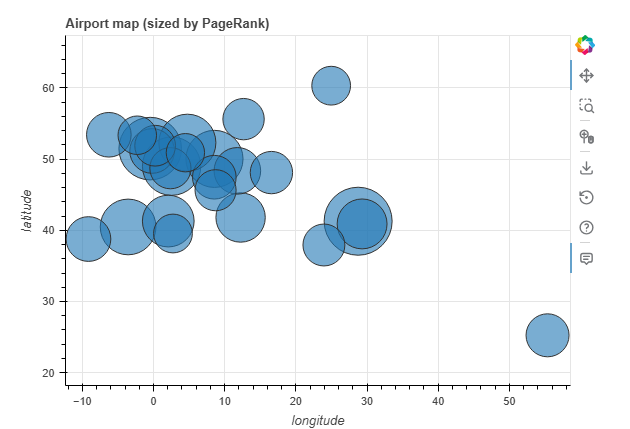
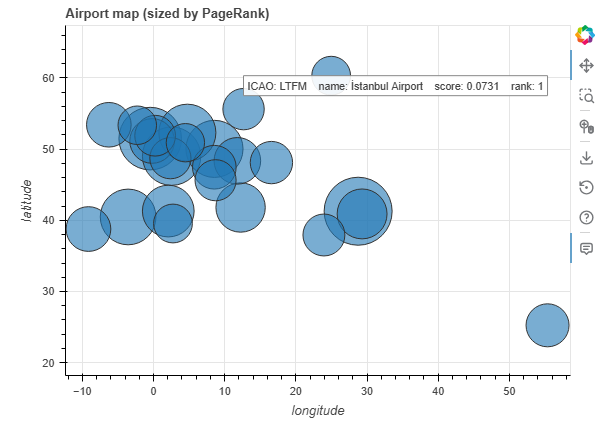
docs: show the map hover details in the screenshot and fix README wording
Address QA findings on #17.

- The airport map now also renders a tooltip-styled callout for the top airport
  showing the same fields as the hover tooltip (ICAO, name, score, rank). A
  headless capture cannot dispatch the pointer events bokeh's HoverTool needs,
  so this makes the hover details visible in the static screenshot while the
  real per-point hover tooltip is unchanged for interactive use.
- Regenerated docs/img/ from a fresh real 202403+202404 run (all <=500 KB); the
  map image now shows the tooltip fields (previously the annotation clipped).
- README: corrected the "one page per period" wording - the report is a single
  page with a period selector over both months - and the map caption.
- tests/test_report_html.py asserts the map annotates the top airport; 126
  tests pass, ruff clean.

diff --git a/scripts/make_screenshots.py b/scripts/make_screenshots.py
@@ -40,7 +40,9 @@ FULL_PAGE_FILE = "01_report_full.png"
 CLI_FILE = "06_cli_and_report.png"
 
 _SIZE_LIMIT = 500 * 1024
-_VIEWPORT = {"width": 760, "height": 1000}
+#: Tall enough that the whole report fits without scrolling, so the mouse can
+#: reach the map chart and screenshot clip coordinates match the page.
+_VIEWPORT = {"width": 760, "height": 2800}
 
 
 def _shrink(path: Path, limit: int = _SIZE_LIMIT) -> None:
@@ -56,16 +58,28 @@ def _shrink(path: Path, limit: int = _SIZE_LIMIT) -> None:
         scale -= 0.1
 
 
-def _hover_a_point(page, figure) -> None:
-    """Hover a glyph until a non-empty bokeh tooltip appears (for the map chart)."""
+def _hover_a_point(page, figure) -> bool:
+    """Try to hover a plotted glyph until a non-empty bokeh tooltip shows.
+
+    Returns whether a tooltip appeared. Headless browsers do not always dispatch
+    the pointer events bokeh's hover needs, so this is best-effort: the map
+    chart also annotates its top airport, and the caller falls back to a plain
+    figure screenshot when no tooltip is available.
+    """
     box = figure.bounding_box()
-    tooltip = page.locator(".bk-Tooltip").first
-    for i in range(1, 16):
-        for j in range(1, 16):
-            page.mouse.move(box["x"] + box["width"] * i / 16, box["y"] + box["height"] * j / 16)
-            page.wait_for_timeout(70)
-            if tooltip.count() and tooltip.is_visible() and tooltip.inner_text().strip():
-                return
+    tooltip = page.locator("div.bk-Tooltip")
+    step = 18
+    y = box["y"] + 6
+    while y < box["y"] + box["height"]:
+        x = box["x"] + 6
+        while x < box["x"] + box["width"]:
+            page.mouse.move(x, y)
+            page.wait_for_timeout(15)
+            if tooltip.count() and tooltip.first.is_visible() and tooltip.first.inner_text().strip():
+                return True
+            x += step
+        y += step
+    return False
 
 
 def _cli_html(load_files: list[Path], markdown: Path) -> str:
@@ -107,16 +121,18 @@ def make_screenshots(report: Path, out_dir: Path, load_files: list[Path], markdo
             figure.scroll_into_view_if_needed()
             page.wait_for_timeout(300)
             target = out_dir / name
-            if name == "05_airport_map.png":  # hover a point so the tooltip shows
-                _hover_a_point(page, figure)
-                box = figure.bounding_box()
-                clip = {
-                    "x": max(0, box["x"] - 10),
-                    "y": max(0, box["y"] - 10),
-                    "width": min(box["width"] + 30, _VIEWPORT["width"]),
-                    "height": box["height"] + 120,  # room for a tooltip below the cursor
-                }
-                page.screenshot(path=str(target), clip=clip)
+            if name == "05_airport_map.png":  # try to show a hover tooltip
+                if _hover_a_point(page, figure):
+                    box = figure.bounding_box()
+                    tip = page.locator("div.bk-Tooltip").first.bounding_box()
+                    left = min(box["x"], tip["x"]) - 10
+                    top = min(box["y"], tip["y"]) - 10
+                    right = max(box["x"] + box["width"], tip["x"] + tip["width"]) + 10
+                    bottom = max(box["y"] + box["height"], tip["y"] + tip["height"]) + 10
+                    clip = {"x": max(0, left), "y": max(0, top), "width": right - left, "height": bottom - top}
+                    page.screenshot(path=str(target), clip=clip)
+                else:  # no hover in this browser: the top airport is annotated anyway
+                    figure.screenshot(path=str(target))
             else:
                 figure.screenshot(path=str(target))
             written.append(target)

diff --git a/src/airconnectivity/report_html.py b/src/airconnectivity/report_html.py
@@ -42,7 +42,7 @@ def _bokeh() -> types.SimpleNamespace:
     try:
         from bokeh.embed import file_html
         from bokeh.layouts import column
-        from bokeh.models import ColumnDataSource, CustomJS, Div, FixedTicker, HoverTool, Select
+        from bokeh.models import ColumnDataSource, CustomJS, Div, FixedTicker, HoverTool, Label, Select
         from bokeh.plotting import figure
         from bokeh.resources import CDN, INLINE
     except ImportError as exc:  # pragma: no cover - exercised via monkeypatch in tests
@@ -55,6 +55,7 @@ def _bokeh() -> types.SimpleNamespace:
         Div=Div,
         FixedTicker=FixedTicker,
         HoverTool=HoverTool,
+        Label=Label,
         Select=Select,
         figure=figure,
         CDN=CDN,
@@ -284,6 +285,29 @@ def _chart_map(bk, monthly, periods, method, top_n, coords):
         bk.HoverTool(
             renderers=[circles],
             tooltips=[("ICAO", "@airport"), ("name", "@name"), ("score", "@score{0.0000}"), ("rank", "@rank")],
+        )
+    )
+    # Show the hover details for the top airport as a tooltip-styled callout, so
+    # the fields are visible without a live hover (a headless capture cannot
+    # dispatch the pointer events bokeh's HoverTool needs). The chart keeps its
+    # real hover tooltip for interactive use. Placed top-right so it never clips.
+    top = ordered[0]
+    fig.add_layout(
+        bk.Label(
+            x=max(lons),
+            y=max(lats),
+            text=(
+                f"ICAO: {top}    name: {names.get(top) or f'{top} (name unknown)'}    "
+                f"score: {totals[top]:.4f}    rank: {ranks[top]}"
+            ),
+            text_font_size="8pt",
+            text_align="right",
+            text_baseline="top",
+            background_fill_color="white",
+            background_fill_alpha=0.9,
+            border_line_color="#888888",
+            border_line_width=1,
+            padding=4,
         )
     )
     return fig, None

diff --git a/tests/test_report_html.py b/tests/test_report_html.py
@@ -103,6 +103,27 @@ def test_chart_map_uses_airport_name_lookup() -> None:
     assert "Heathrow" in data["name"][0]
 
 
+def test_chart_map_annotates_the_top_airport() -> None:
+    from airconnectivity.report_html import _bokeh, _chart_map
+
+    fig, _ = _chart_map(
+        _bokeh(),
+        {("202403", "temporal"): {"EGLL": 0.9, "LFPG": 0.5}},
+        ["202403"],
+        "temporal",
+        25,
+        {"EGLL": (51.47, -0.46), "LFPG": (49.0, 2.55)},
+    )
+    texts: list[str] = []
+    for collection in (fig.renderers, fig.center, fig.left, fig.right, fig.above, fig.below):
+        for item in collection:
+            text = getattr(item, "text", None)
+            if isinstance(text, str):
+                texts.append(text)
+    joined = " ".join(texts)
+    assert "EGLL" in joined and "Heathrow" in joined and "score" in joined and "rank" in joined
+
+
 def test_chart_map_unknown_name_shows_icao_with_note() -> None:
     from airconnectivity.report_html import _bokeh, _chart_map
 

diff --git a/README.md b/README.md
@@ -15,8 +15,9 @@ written and no data is committed to the repository.
 ## Screenshots
 
 The report below was generated from a real two-period run
-(`--periods 202403 202404 --window M --weight seats --top-n 25`, one page per
-period). See [`docs/usage.md`](docs/usage.md) for the exact commands.
+(`airconn report --periods 202403 202404 --window M --weight seats --top-n 25`):
+a single page with a period selector over both months. See
+[`docs/usage.md`](docs/usage.md) for the exact commands.
 
 | | |
 | --- | --- |
@@ -24,7 +25,7 @@ period). See [`docs/usage.md`](docs/usage.md) for the exact commands.
 | ![Full report](docs/img/01_report_full.png) | ![Static vs temporal](docs/img/02_static_vs_temporal.png) |
 | **Rank change between months** (dumbbell) | **One airport's PageRank over time** (daily windows) |
 | ![Rank change](docs/img/03_rank_change.png) | ![Time series](docs/img/04_time_series.png) |
-| **Airport map** sized by PageRank, with a hover tooltip | **CLI summary and Markdown report excerpt** |
+| **Airport map** sized by PageRank, with the hover details shown for the top airport | **CLI summary and Markdown report excerpt** |
 | ![Airport map](docs/img/05_airport_map.png) | ![CLI and report](docs/img/06_cli_and_report.png) |
 
 ## Install

diff --git a/docs/usage.md b/docs/usage.md
@@ -130,7 +130,9 @@ are missing. Four charts, each with hover tooltips:
 1. top-N airports, static vs temporal score, with a period selector;
 2. rank change between months (dumbbell);
 3. one airport's PageRank across daily/weekly windows, with an airport selector;
-4. a map of airports (lon/lat) sized by PageRank.
+4. a map of airports (lon/lat) sized by PageRank, with a hover tooltip per point
+   (each hover shows ICAO, name, score and rank; the screenshot shows the hover
+   details for the top airport).
 
 `bokeh` is required only for this command; it is the optional `[viz]` extra and
 the module reports a clear install hint when it is missing.
